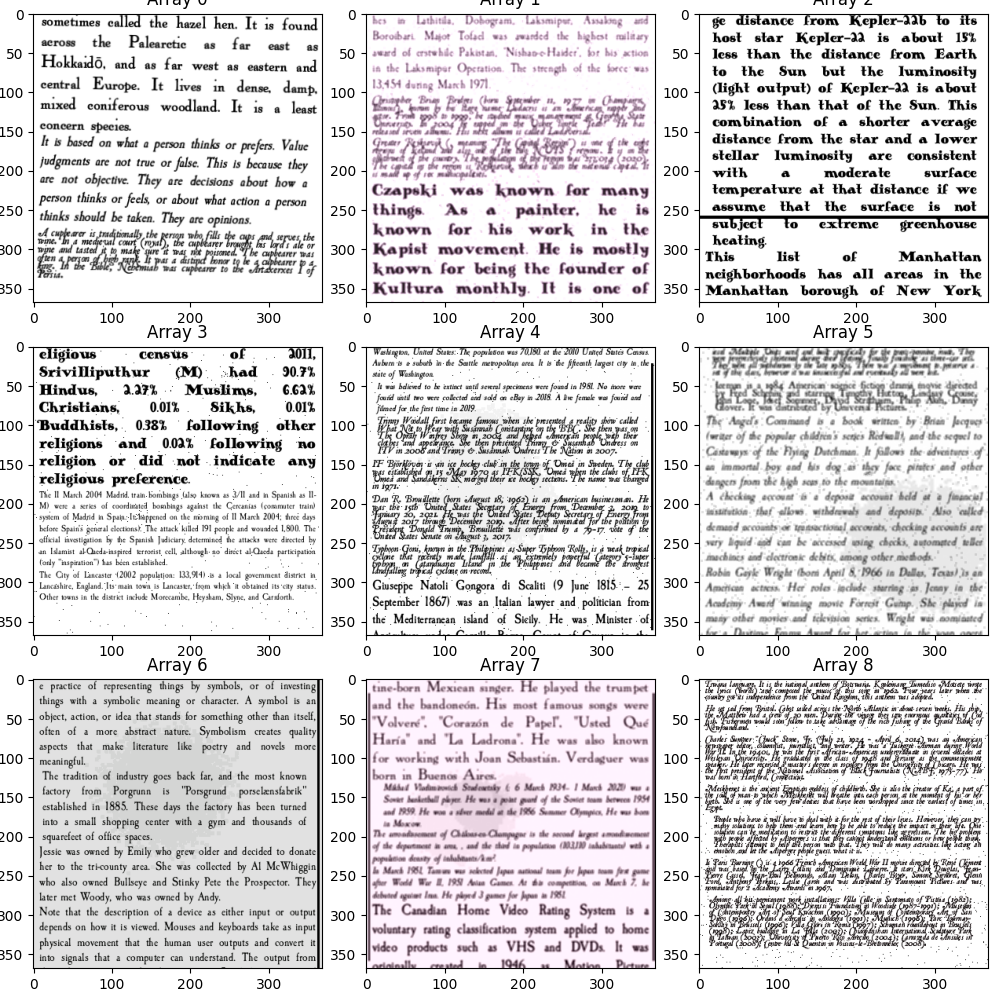
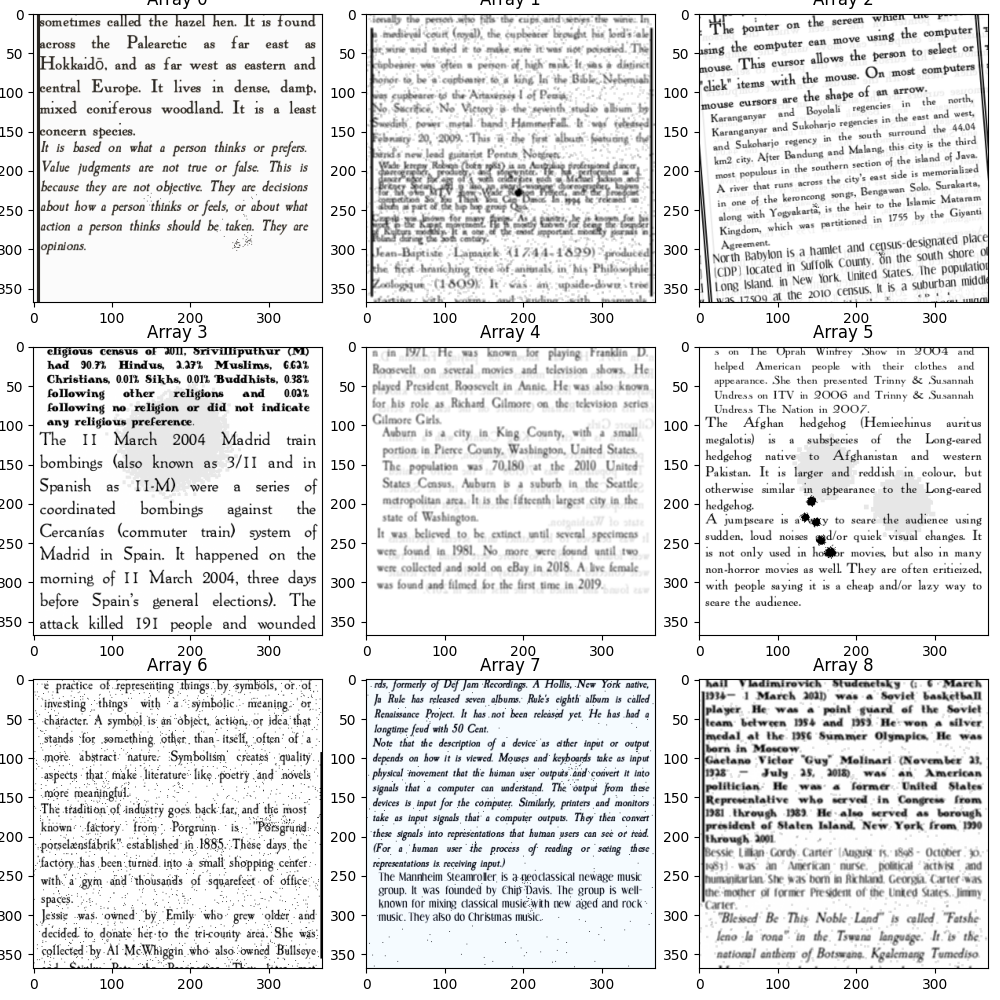
Finnished basic SQuAD dataset generation

diff --git a/squad_dataset_for_pixel.py b/squad_dataset_for_pixel.py
@@ -3,10 +3,11 @@ from weasyprint import HTML, CSS
 from weasyprint.fonts import FontConfiguration
 from cairocffi import FORMAT_ARGB32
 from torch.utils.data import IterableDataset, get_worker_info
-from datasets import load_dataset
 from typing import Callable, List, Tuple, Dict
 from wandb.sdk.wandb_config import Config
 from utils.dataset_utils import CustomFont
+from utils.utils import crop_image, plot_arrays
+from datasets import load_dataset
 import numpy as np
 import pandas as pd
 import logging
@@ -32,13 +33,7 @@ class SquadImageGenerator(object):
         "line_spacing": ".5",
         "word_break": None,
         "line_break": None,
-        "line_height_pretraining": None,
-        "font_family_question": "Garamond",
-        "font_size_question": "18px",
-        "line_height_question": None,
-        "font_family_context": "Garamond",
-        "font_size_context": "14px",
-        "line_height_context": None,
+        "line_height": None,
     }
 
     def __init__(self, config: Config, rng: np.random.RandomState) -> None:
@@ -49,47 +44,16 @@ class SquadImageGenerator(object):
         self.config = config
         self.rng = rng
         self.font_list = pd.read_csv(config.font_list_path)
-        self.template = self._preload_template()
 
-    def _preload_template(self):
-        dummy_fonts = [CustomFont(
-            file_name=f"DUMMY_FILE_{i}", font_name=f"DUMMY_NAME_{i}", font_size=f"DUMMY_SIZE_{i}"
-        ) for i in [0,1]]  # one for question and one for context
-        dummy_margin = ["DUMMY_LEFT", "DUMMY_RIGHT", "DUMMY_TOP", "DUMMY_BOTTOM"]
-        dummy_style = self._get_updated_style_config([dummy_fonts], dummy_margin)
-        html_template = self._generate_html_text(
-            self.config.html_template, dummy_style, "DUMMY_QUESTION", "DUMMY_CONTEXT"
-        )
-        return html_template
-
-    def update_template(self, fonts: List[CustomFont], question: str, context: str, margins: List[int]):
-        """
-        A function to update the template with new font and texts
-        """
-        for i in range(2):
-            html_template = self.template.replace(f"DUMMY_FILE_{i}", fonts[i].file_name)
-            html_template = html_template.replace(f"DUMMY_NAME_{i}", fonts[i].font_name)
-            html_template = html_template.replace(f"DUMMY_SIZE_{i}", str(fonts[i].font_size))
-            
-        html_template = html_template.replace("DUMMY_LEFT", str(margins[0]))
-        html_template = html_template.replace("DUMMY_RIGHT", str(margins[1]))
-        html_template = html_template.replace("DUMMY_TOP", str(margins[2]))
-        html_template = html_template.replace("DUMMY_BOTTOM", str(margins[3]))
-        html_template = html_template.replace("DUMMY_QUESTION", question)
-        html_template = html_template.replace("DUMMY_CONTEXT", context)
-        return html_template
-
-    def _get_updated_style_config(self, custom_fonts: List[CustomFont], margins: List):
+    def _get_updated_style_config(self, custom_font: CustomFont, margins: List):
         """
         A function to get the updated style config from wandb
         """
         style = copy.deepcopy(self.DEFAULT_COMBINATIONS)
-        style["custom_fonts"] = custom_fonts
-        
-        style["font_family_question"] = custom_fonts[0].font_name
-        style["font_size_question"] = f"{custom_fonts[0].font_size}px"
-        style["font_family_context"] = custom_fonts[1].font_name
-        style["font_size_context"] = f"{custom_fonts[2].font_size}px"
+        style["custom_fonts"] = [custom_font]
+
+        style["font_family"] = custom_font.font_name
+        style["font_size"] = f"{custom_font.font_size}px"
         style["left_margin"] = f"{margins[0]}px"
         style["right_margin"] = f"{margins[1]}px"
         style["top_margin"] = f"{margins[2]}px"
@@ -110,12 +74,11 @@ class SquadImageGenerator(object):
         font_name = random_font.split(".")[0].split("/")[1]
 
         font_size = self.font_list["base_size"][random_index]
-        font_size = int(font_size / 1.5) + self.rng.randint(-4, 5, 1)[0]
+        font_size = int(font_size / 1.4) + self.rng.randint(-4, 5, 1)[0]
 
         custom_font = CustomFont(
             file_name=random_font, font_name=font_name.title(), font_size=font_size
         )
-
         return custom_font
 
     def _get_random_margins(self) -> List[int]:
@@ -130,14 +93,21 @@ class SquadImageGenerator(object):
         return margins
 
     def _generate_html_text(
-        self, template: str, style: Dict, question: str, context: str
+        self, template: str, style: Dict, question: str = None, context: str = None
     ) -> str:
         env = Environment(
             loader=FileSystemLoader("./templates/"),
             autoescape=select_autoescape(["html", "xml"]),
         )
         template = env.get_template(template)
-        html_text = template.render(question=question, context=context, **style)
+        if question is None and context is not None:
+            html_text = template.render(context=context, **style)
+        elif context is None and question is not None:
+            html_text = template.render(question=question, **style)
+        else:
+            raise ValueError(
+                "One of 'question' or 'context' should be provided to the function, and only one"
+            )
         return html_text
 
     def _render_html_as_image(self, html_text: str, channel: str = "GRAYSCALE"):
@@ -180,54 +150,70 @@ class SquadImageGenerator(object):
                 f"Invalid channel code {channel}. Valid values are: {valid_channels}."
             )
 
-    def generate(self, text, font: CustomFont = None):
+    def _generate_question(self, text: str, font: CustomFont) -> np.ndarray:
+        margins = self._get_random_margins()
+        style = self._get_updated_style_config(font, margins)
+        html_text = self._generate_html_text(template=self.config.html_question_template, question=text, style=style)
+        img_array = self._render_html_as_image(html_text, channel=self.config.channel)
+        img_array = crop_image(img_array)
+        return img_array
+
+    def _generate_context(self, text: str, font: CustomFont) -> np.ndarray:
+        margins = self._get_random_margins()
+        style = self._get_updated_style_config(font, margins)
+        html_text = self._generate_html_text(template=self.config.html_context_template, context=text, style=style)
+        img_array = self._render_html_as_image(html_text, channel=self.config.channel)
+        return img_array
+
+    def generate(
+        self,
+        question: str,
+        context: str,
+        fonts: List[CustomFont] = None,
+        method: str = "random_crop",
+    ):
         """
         Generate an image from the given text and font
         :param text: The text to be rendered
         :param font: The font to be used
+        :param method: The method to be used for generating the image, one of ["random_crop", "concatenate", "list", "first_crop"]
         """
-        if font is None:
-            font = self._get_random_custom_font()
-        margins = self._get_random_margins()
-        html_text = self.update_template(font, text, margins)
-        img_array = self._render_html_as_image(html_text, channel=self.config.channel)
-        img_array = img_array[: self.config.image_height, :]
-        return img_array, font
+        if fonts is None:
+            fonts = [self._get_random_custom_font() for _ in range(2)]
 
-    def _crop_image(self, img):
-        """
-        Crops an image to the smallest possible size containing all non-white pixels.
-        Parameters:
-            img (np.ndarray): A numpy array representing the image to crop.
-        Returns:
-            np.ndarray: The cropped image.
-        """
-        # Find the indices of all non-white pixels.
-        non_white_pixels = np.argwhere(img < 255)
+        question = self._generate_question(question, fonts[0])
+        context = self._generate_context(context, fonts[1])
 
-        # Find the minimum and maximum indices in each dimension.
-        max_indices = non_white_pixels.max(axis=0)
+        if method == "concatenate":
+            scan = np.concatenate((question, context), axis=0)
+        elif method == "first_crop":
+            concatenated = np.concatenate((question, context), axis=0)
+            scan = concatenated[: self.config.image_height, :]
+        elif method == "random_crop":
+            context_crop_size = self.config.image_height - question.shape[0]
+            random_context_crop_loc = self.rng.randint(
+                0, context.shape[0] - context_crop_size
+            )
+            random_context_crop = context[
+                random_context_crop_loc : random_context_crop_loc + context_crop_size, :
+            ]
+            scan = np.concatenate((question, random_context_crop), axis=0)
+            assert scan.shape[0] == self.config.image_height
+        elif method == "list":
+            context_crop_size = self.config.image_height - question.shape[0]
+            scan = []
+            for i in range(0, context.shape[0], context_crop_size):
+                scan.append(
+                    np.concatenate(
+                        (question, context[i : i + context_crop_size, :]), axis=0
+                    )
+                )
+        else:
+            raise ValueError(
+                f"Invalid method {method}. Valid values are: ['random_crop', 'concatenate', 'list', 'first_crop']"
+            )
 
-        # Crop the image to the smallest possible size containing all non-white pixels.
-        cropped_img = img[: max_indices[0] + 2, :]
-        return cropped_img
-
-    def check_if_can_concatenate(self, img):
-        non_white_pixels = np.argwhere(img < 255)
-        # Find the minimum and maximum indices in each dimension.
-        max_indices = non_white_pixels.max(axis=0)
-        return (
-            self.config.image_height - max_indices[0]
-            > self.config.maximal_white_space_in_image
-        )
-
-    def concatenate_images(self, image1, image2):
-        """
-        A method that concatenates two images vertically
-        """
-        concatenated = np.concatenate((self._crop_image(image1), image2), axis=0)
-        concatenated = concatenated[: self.config.image_height, :]
-        return concatenated
+        return scan
 
     def get_attention_mask(self, num_text_patches: int):
         """
@@ -257,7 +243,9 @@ class SquadDatasetForPixel(IterableDataset):
         self.transform = transform
         self.rng = rng
         self.image_generator = SquadImageGenerator(config, rng)
-        self.attention_mask = self.image_generator.get_attention_mask(config.num_patches)
+        self.attention_mask = self.image_generator.get_attention_mask(
+            config.num_patches
+        )
 
     def set_epoch(self, epoch):
         """
@@ -272,21 +260,53 @@ class SquadDatasetForPixel(IterableDataset):
     def _generate_scans_fron_sample(self, instance: Dict):
         question = instance["question"]
         context = instance["context"]
-        generated_scans = self.image_generator.generate(question, context)
-        label_masks = self.image_generator.generate_label_mask(generated_scans, instance['answers']['text'][0])
-        return generated_scans, label_masks
+
+        scan = self.image_generator.generate(question, context, method=self.config.long_context_generation_method)
+
+        # label_mask = self.image_generator.generate_label_mask(
+        #     scan, instance["answers"]["text"][0]
+        # )
+        label_mask = None
+        return scan, label_mask
 
     def __iter__(self) -> dict:
         for data in self.text_dataset:
-            generated_scans, label_masks = self._generate_scans_fron_sample(data)
-            for scan, mask in zip(generated_scans, label_masks):
-                if self.transform:
-                    scan, mask = self.transform(scan, mask)
-                    
-                inputs = {
-                    "pixel_values": scan,
-                    "label_mask": mask,
-                    "num_patches": self.config.num_patches,
-                    "attention_mask": self.attention_mask,
-                }
-                yield inputs
+            scan, mask = self._generate_scans_fron_sample(data)
+
+            if self.transform:
+                scan, mask = self.transform(scan, mask)
+
+            inputs = {
+                "pixel_values": scan,
+                "label_mask": mask,
+                "num_patches": self.config.num_patches,
+                "attention_mask": self.attention_mask,
+            }
+            yield inputs
+
+
+def main():
+    wandb.init(config="configs/squad_config.yaml", mode="disabled")
+    rng = np.random.RandomState(2)
+
+    transform = None
+    train_dataset = SquadDatasetForPixel(
+        config=wandb.config, transform=transform, rng=rng, split="train"
+    )
+    figures = []
+    for i in range(3):
+        train_dataset.set_epoch(i)
+        counter = 0
+        for batch in train_dataset:
+            if counter == 3:
+                break
+            im = batch["pixel_values"].numpy().astype("uint8").transpose(1, 2, 0)
+            figures.append(im)
+            counter += 1
+
+    im = plot_arrays(figures)
+    im.save("results/sample_squad.png")
+
+
+if __name__ == "__main__":
+    main()

diff --git a/pixel_dataset_generator.py b/pixel_dataset_generator.py
@@ -209,24 +209,6 @@ class ImageGenerator(object):
         img_array = img_array[: self.config.image_height, :]
         return img_array, font
 
-    def _crop_image(self, img):
-        """
-        Crops an image to the smallest possible size containing all non-white pixels.
-        Parameters:
-            img (np.ndarray): A numpy array representing the image to crop.
-        Returns:
-            np.ndarray: The cropped image.
-        """
-        # Find the indices of all non-white pixels.
-        non_white_pixels = np.argwhere(img < 255)
-
-        # Find the minimum and maximum indices in each dimension.
-        max_indices = non_white_pixels.max(axis=0)
-
-        # Crop the image to the smallest possible size containing all non-white pixels.
-        cropped_img = img[: max_indices[0] + 2, :]
-        return cropped_img
-
     def check_if_can_concatenate(self, img):
         non_white_pixels = np.argwhere(img < 255)
         # Find the minimum and maximum indices in each dimension.
@@ -240,7 +222,7 @@ class ImageGenerator(object):
         """
         A method that concatenates two images vertically
         """
-        concatenated = np.concatenate((self._crop_image(image1), image2), axis=0)
+        concatenated = np.concatenate((crop_image(image1), image2), axis=0)
         concatenated = concatenated[: self.config.image_height, :]
         return concatenated
 
@@ -418,7 +400,7 @@ class PretrainingDataset(IterableDataset):
 
 
 def main():
-    wandb.init(config="configs/config.yaml", mode="disabled")
+    wandb.init(config="configs/pretraining_config.yaml", mode="disabled")
     rng = np.random.RandomState(2)
     text_dataset = load_dataset("wikipedia", "20220301.simple")
 

diff --git a/utils/utils.py b/utils/utils.py
@@ -121,7 +121,7 @@ def merge_rectangle_lines(rectangles: List[Tuple[float]], tolerance=10):
     return merged_lines
 
 
-def crop_image(img):
+def crop_image(img, vertical: bool = True, horizontal: bool = False):
     """
     Crops an image to the smallest possible size containing all non-white pixels.
 
@@ -136,13 +136,18 @@ def crop_image(img):
     non_white_pixels = np.argwhere(img < 255)
 
     # Find the minimum and maximum indices in each dimension.
-    min_indices = non_white_pixels.min(axis=0)
-    max_indices = non_white_pixels.max(axis=0)
+    min_indices_vertical = non_white_pixels.min(axis=0)
+    max_indices_vertical = non_white_pixels.max(axis=0)
 
+    min_indices_horizontal = non_white_pixels.min(axis=1)
+    max_indices_horizontal = non_white_pixels.max(axis=1)
+    
     # Crop the image to the smallest possible size containing all non-white pixels.
-    cropped_img = img[min_indices[0] : max_indices[0] + 1, :]
-
-    return cropped_img
+    if vertical:
+        img = img[min_indices_vertical[0] : max_indices_vertical[0] + 1, :]
+    if horizontal:
+        img = img[:, min_indices_horizontal[0] : max_indices_horizontal[0] + 1]
+    return img
 
 
 def embed_image(img: np.ndarray, width=368, height=368):
